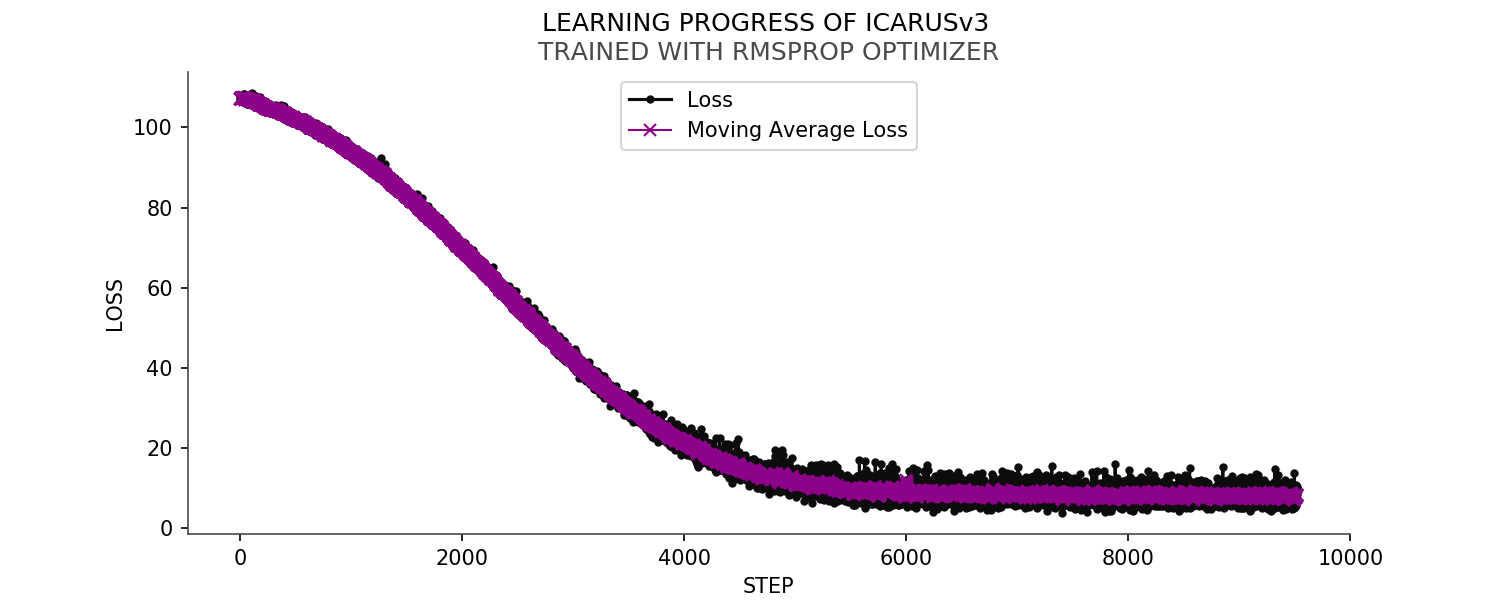
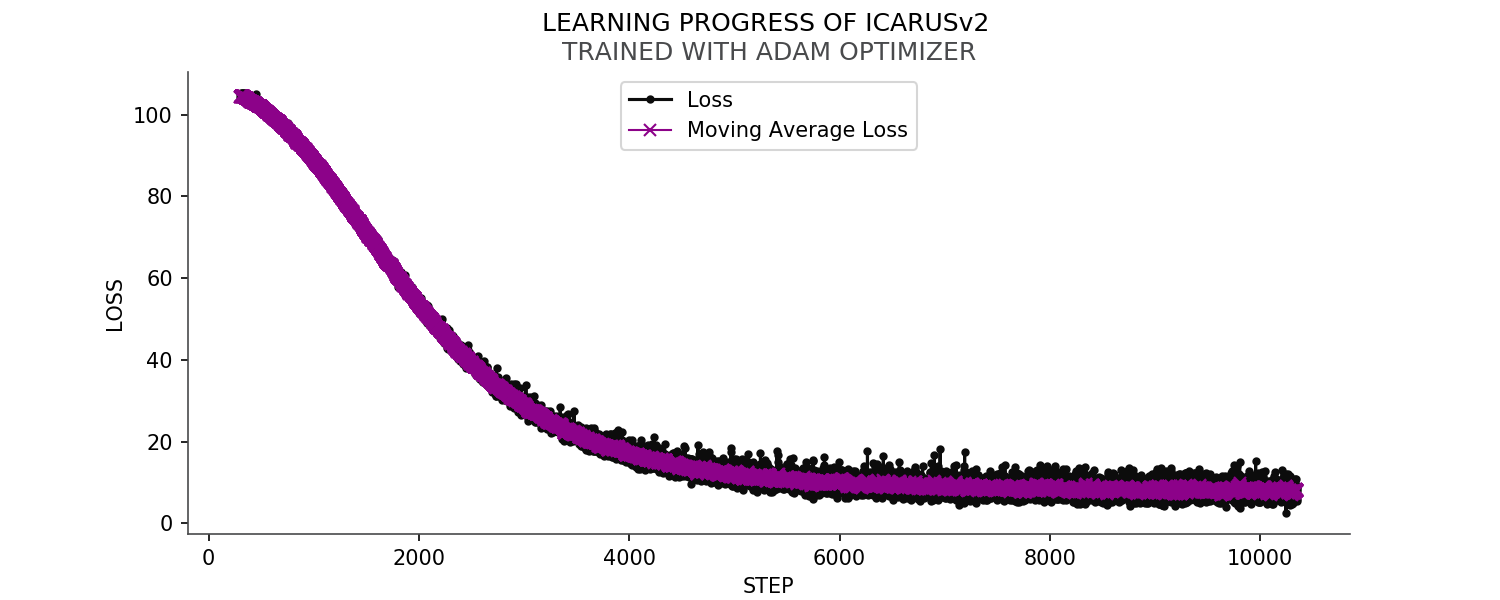
Update
Now training with ADAM again

diff --git a/imageClassification/ICARUS/darkFLOW_repo/darkflow-master/ICARUSValidation.py b/imageClassification/ICARUS/darkFLOW_repo/darkflow-master/ICARUSValidation.py
@@ -18,7 +18,7 @@ file_list = os.listdir(img_folder)
 
 
 #setting up YOLO
-options = {"model": "cfg/tiny-yolo-ICARUSv3.cfg", "load": 8700, "threshold": 0.1, 'gpu': 0}
+options = {"model": "cfg/tiny-yolo-ICARUSv3.cfg", "load": 22200, "threshold": 0.5, 'gpu': 0}
 tfnet = TFNet(options)
 
 print("Running validation of ICARUS...")
@@ -34,7 +34,7 @@ for number in file_list:
 
     # predict labels of objects in image
     result = tfnet.return_predict(imgcv)
-    print(result)
+    #print(result)
 
     if len(result) > 0:
         detect += 1
@@ -59,8 +59,8 @@ for number in file_list:
 stop = datetime.now()
 n = len(file_list)
 percentage = round(100*(detect/n), 2)
-avr_confidence = round(np.mean(confidence_list), 2)
-med_confidence = round(np.median(confidence_list), 2)
+avr_confidence = np.mean(confidence_list)
+med_confidence = np.median(confidence_list)
 
 # save validation statistics
 with open("icarusVALIDATION/validationStatistics.txt",'a') as logger:

diff --git a/imageClassification/ICARUS/darkFLOW_repo/darkflow-master/PLOTTiBoi.py b/imageClassification/ICARUS/darkFLOW_repo/darkflow-master/PLOTTiBoi.py
@@ -3,8 +3,8 @@ import os
 import numpy as np
 
 
-icarus_version = 3
-trainer = "RMSPROP"
+icarus_version = 2
+trainer = "ADAM"
 thresh = 0.5
 data = {}
 detects = {}
@@ -174,6 +174,7 @@ def plotLearning():
 
             except:
                 break
+
 
     # plotting stuff now
     fig, ax = plt.subplots(figsize=(10,4), dpi=150)

diff --git a/README.md b/README.md
@@ -97,6 +97,11 @@ continue training this way.
 A _second_ version of ICARUS**v2** was trained, using the ADAM Optimizer  
 `python flow --model cfg/tiny-yolo-ICARUSv2.cfg --train --annotation training/annotations --dataset training/fullTrainingDataset/0_allTrainingBatches --batch 10 --gpu 0.77 --save 3000 --trainer adam --load -1`
 
+
+
+
+
+
 A third version of ICARUS, ICARUSv3 was trained using the RMSPROP Optimizer but also taking 
 into consideration lessons learned along the way.  
 `python flow --model cfg/tiny-yolo-ICARUSv3.cfg --train --annotation training/annotations --dataset training/fullTrainingDataset/0_allTrainingBatches --batch 8 --gpu 0.77 --save 3000 --trainer rmsprop`
@@ -104,7 +109,13 @@ into consideration lessons learned along the way.
 at step 6000, at a moving average loss of about 8 I changed to the following:  
 `python flow --model cfg/tiny-yolo-ICARUSv3.cfg --train --annotation training/annotations --dataset training/fullTrainingDataset/0_allTrainingBatches --batch 10 --gpu 0.77 --save 3000 --trainer rmsprop --load -1  --lr 0.000005`
 
-To log the values for training , I changed flow.py in `/darkflow/net` as follows.  
+at step 10500 I changed to the following:  
+`python flow --model cfg/tiny-yolo-ICARUSv3.cfg --train --annotation training/annotations --dataset training/fullTrainingDataset/0_allTrainingBatches --batch 10 --gpu 0.77 --save 3000 --trainer rmsprop --load -1  --lr 0.0000005`
+
+at step 17100 I changed again to the following:  
+`python flow --model cfg/tiny-yolo-ICARUSv3.cfg --train --annotation training/annotations --dataset training/fullTrainingDataset/0_allTrainingBatches --batch 10 --gpu 0.77 --save 3000 --trainer rmsprop --load -1 --lr 0.0000001`
+
+**To log the values for training , I changed flow.py in** `/darkflow/net` **as follows.**  
   
         with open("training_stats.csv", 'a') as logger:
             logger.write("{}, {}, {}{}".format(step_now, loss, loss_mva, "\n"))
